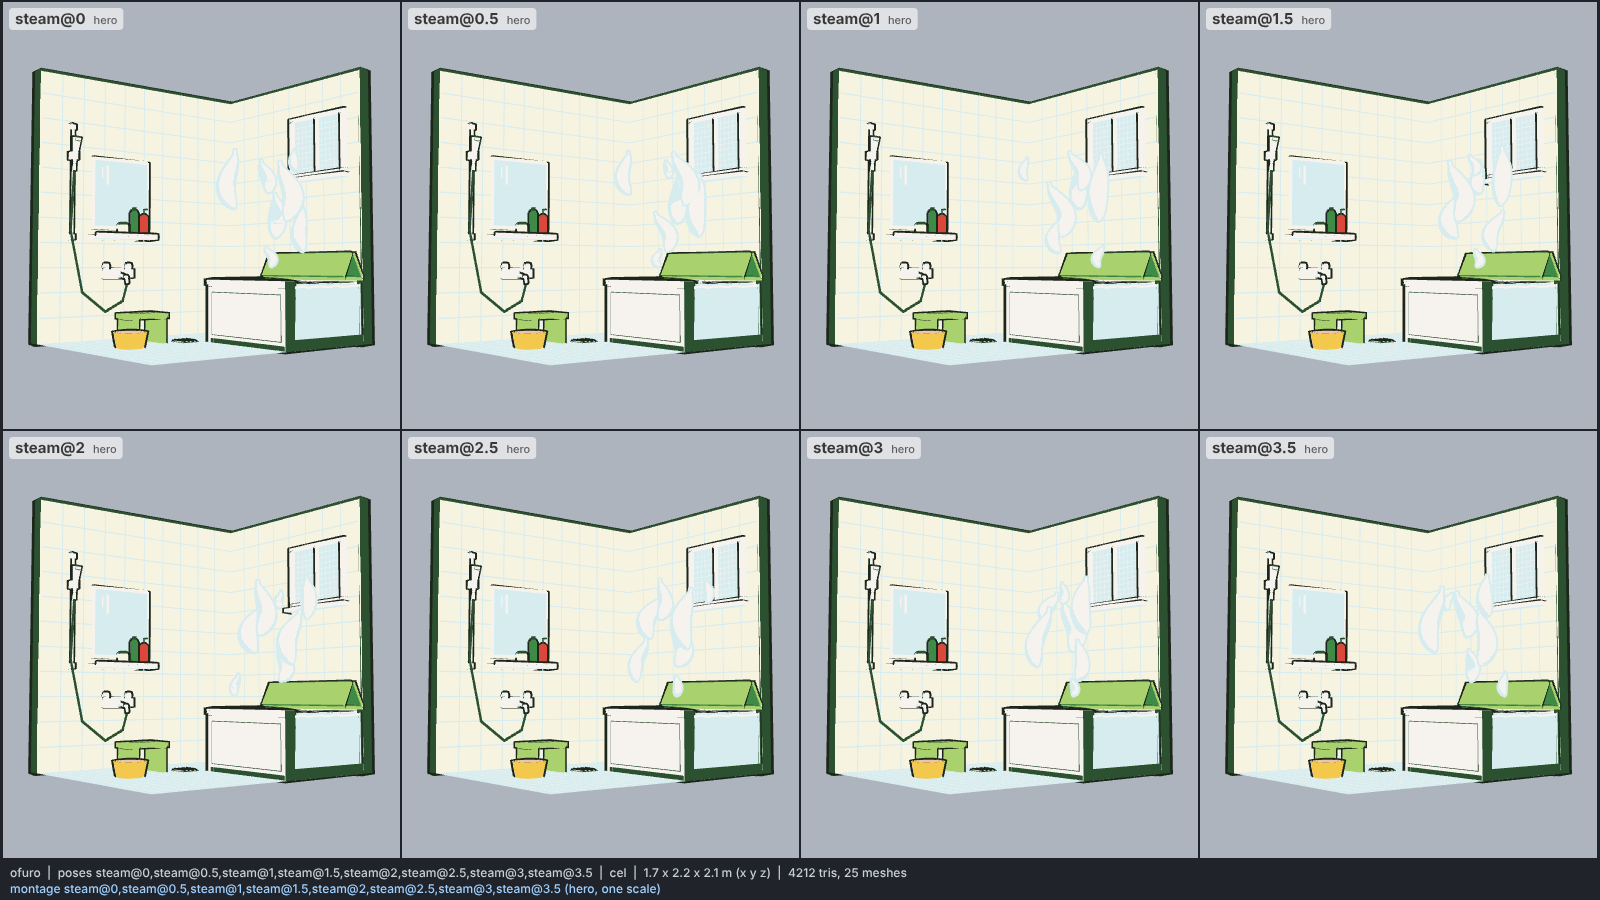
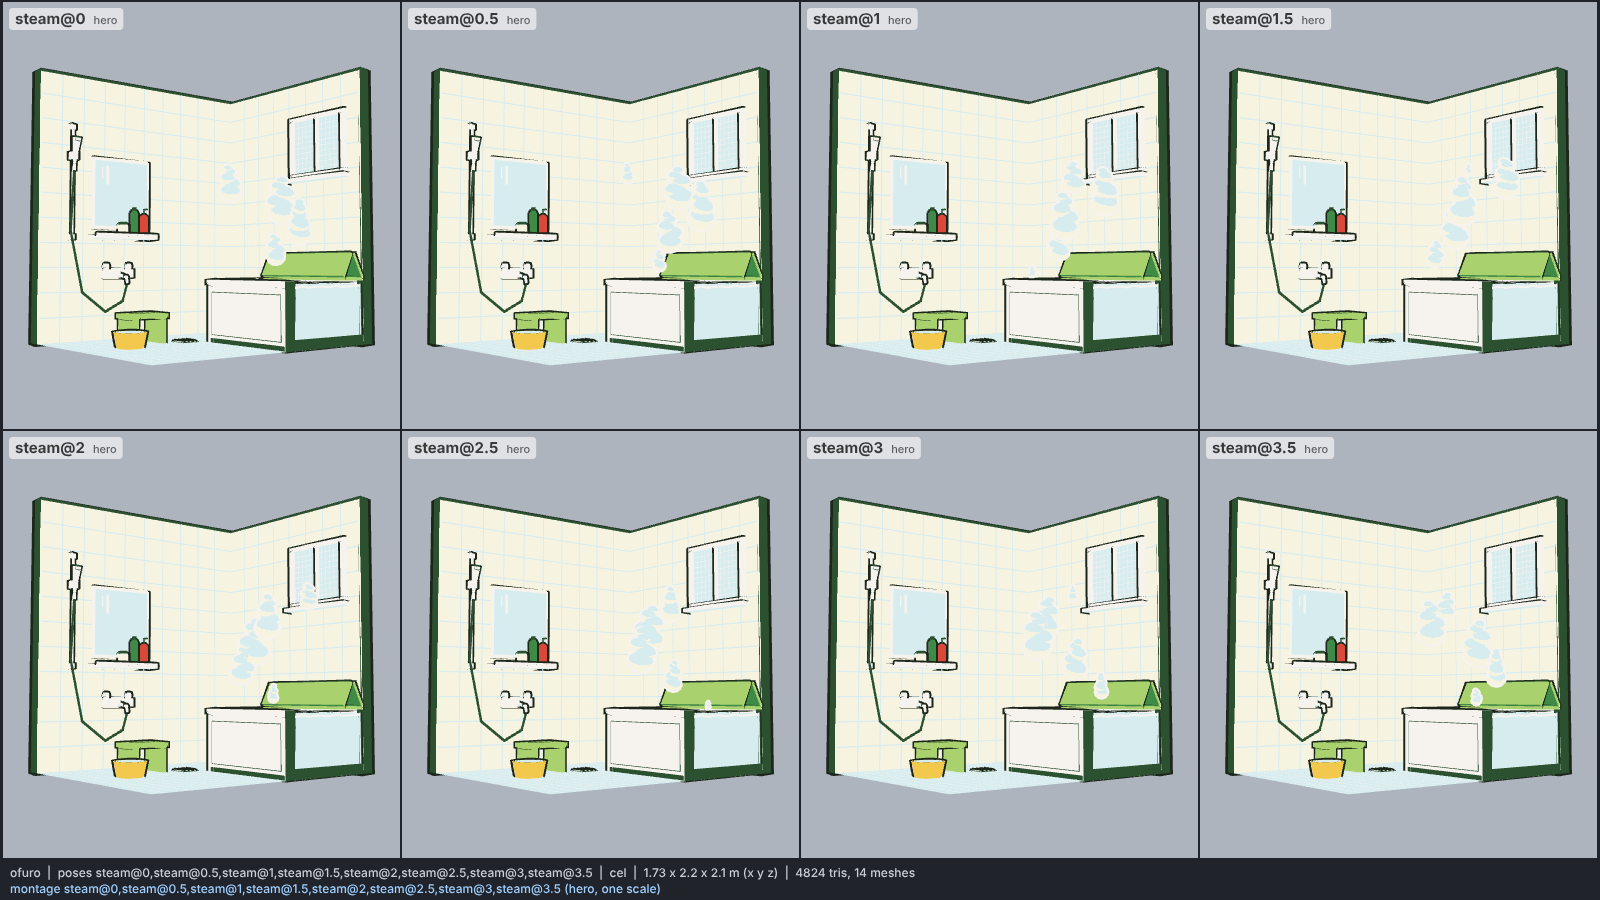
models: ofuro, merge steam and ripples into one mesh each, puffy vapour
Wisps and ripple rings are now one mesh each, their vertices rewritten
by pose() from the joints (14 meshes, was 25). Steam is five stacks of
overlapping soft puffs in sky / moon instead of white pointed wisps.

Claude-Session: https://claude.ai/code/session_01RarBCdt4E1fNHHaUKaW5GL

diff --git a/models/ofuro.js b/models/ofuro.js
@@ -6,7 +6,7 @@
 // y = 0, centred on x = z = 0.
 //
 // Construction (boxes, capped tubes, smooth tubes, lathes, flat plates and annuli, all triangle soups merged per
-// material, so the static room is 14 meshes; every triangle is wound away from a point inside its solid):
+// material, so the static room is 12 meshes; every triangle is wound away from a point inside its solid):
 //   SHELL     floor quad with a small mosaic grout grid and a drain grate; the -X and -Z walls as 10 cm boxes with a
 //             tile grout grid and dark section caps where the cutaway opens them.
 //   TUB       a deep square tub (0.92 x 0.82 m, rim 0.5 m) as wall boxes, a floor slab and a rim band, a recessed
@@ -19,27 +19,30 @@
 //   WASH      a wall mixer tap with two handles and a spout, a shower head on its hose in a holder on a riser bar, a
 //             mirror over a shelf with three bottles (pump, tall, squat), a low wash stool and a yellow basin (oke).
 //   WINDOW    a small frosted window high on the -Z wall over the tub: frame, stile, sill, pane with a fine grid.
-//   STEAM     eight wisps (tapered S-curved smooth tubes) on joints steam0..7, three ripple rings on ripple0..2.
+//   STEAM     five wisps, each a stack of five overlapping soft puffs shrinking upward in an S, on joints steam0..4,
+//             and three ripple rings on ripple0..2. All wisps are ONE mesh and all rings ONE mesh: pose() rewrites
+//             their vertices, normals and hull normals from the joints' transforms (as the gachapon's cranks).
 // Proportions (real size, base unit the wall height H = 2.2 m): interior 1.6 (x) by 2.0 (z); tub x -0.12..0.8,
 //   z -1.0..-0.18, rim 0.5, water 0.47; tap 0.55, shelf 0.84, mirror 0.95-1.5, shower bar 0.85-1.75; window
 //   1.4-1.85; stool seat 0.235, oke 0.12 tall.
 // Options: build(THREE, kit, colors, { height }): height scales the whole room uniformly so the wall top is `height`
 //   (default 2.2 m).
-// Clip (build() returns clips { steam: 4 }; pose("steam@1.5")): the wisps rise ~0.95 m from the water, swell, sway
-//   and shrink away as they climb, eight on staggered phases; the ripple rings spread from the middle of the open
+// Clip (build() returns clips { steam: 4 }; pose("steam@1.5")): the wisps rise ~0.9 m from the water, swell, sway
+//   and shrink away as they climb, five on staggered phases; the ripple rings spread from the middle of the open
 //   water and sink under the surface at the end, twice per loop. Loops exactly at 4 s. Rest is the clip at 1.2 s.
-// Budget: ~4.2k triangles, 25 meshes (14 static materials, 8 wisps, 3 rings).
-// Ink in pixels: walls, floor, tub 3; fittings, bottles, lid, water 2; steam 2 in the sky tone (soft edges, not ink).
+// Budget: ~4.8k triangles, 14 meshes (12 static materials, the steam, the ripples).
+// Ink in pixels: walls, floor 3; tub, fittings, bottles, lid, water 2; steam 2 in sclera (a soft rim, not ink).
 // Colours (meadow, one script), base / shade:
 //   wall tiles                moon #f7f3e1 / sky #d7ecef, threshold 0.1; grout sky #d7ecef flat
 //   floor mosaic              sky #d7ecef flat, grout sclera #f6f3ee
 //   tub, apron, rim           sclera #f6f3ee / sky #d7ecef (white enamel)
 //   water                     sclera #f6f3ee crests / sky #d7ecef body, threshold 0.85 (pale aqua, white ripples)
-//   ripples, glints, steam    sclera #f6f3ee / sky #d7ecef
+//   ripples, glints           sclera #f6f3ee flat
+//   steam (vapour)            sky #d7ecef / moon #f7f3e1 at 0.3, hull sclera #f6f3ee
 //   lid, stool                line #a9d16e / iris #3f8a47 (green plastic)
 //   tap, shower, bar, shelf, window frame  sclera #f6f3ee / sky #d7ecef
 //   mirror, frosted pane      sky #d7ecef flat; the pane's grid sclera
-//   oke                       practical #f2c94c / skin #f0c2ae
+//   oke                       practical #f2c94c / skin #f0c2ae, its water sky
 //   bottles                   accent #d9483b, iris #3f8a47 / hair #2c5131, moon / skin
 //   caps, hose, drain, pump   hair #2c5131 flat or inked (lines)
 
@@ -53,7 +56,8 @@ export const meta = {
     floor: "#d7ecef", floorGrout: "#f6f3ee",
     tub: "#f6f3ee", tubShade: "#d7ecef",
     water: "#d7ecef", waterLit: "#f6f3ee",
-    foam: "#f6f3ee", foamShade: "#d7ecef",
+    foam: "#f6f3ee",
+    vapour: "#d7ecef", vapourShade: "#f7f3e1", vapourInk: "#f6f3ee",
     green: "#a9d16e", greenShade: "#3f8a47",
     metal: "#f6f3ee", metalShade: "#d7ecef",
     mirror: "#d7ecef",
@@ -355,33 +359,44 @@ export function build(THREE, kit, colors = meta.colors, opts = {}) {
   // oke (basin): a yellow tapered bowl beside the stool, on the floor
   const OX = -0.1, OZ = 0.58;
   lathe("oke", [OX, 0, OZ], [[0.095, 0], [0.105, 0.01], [0.125, 0.11], [0.13, 0.12]], 14);
-  annulus("okeIn", [OX, 0.1205, OZ], 0.0, 0.112, 14); // the inside seen as a disc
+  annulus("floor", [OX, 0.1205, OZ], 0.0, 0.112, 14); // water in the basin, seen as a disc
   annulus("dark", [OX, 0.1206, OZ], 0.112, 0.118, 14);
 
-  // ---------- steam and ripples on joints ----------
-  const WISPS = 8, RINGS = 3;
-  const wisp = (i) => { // a tapered S-curved tube, local origin at its root
-    const n = 14, pts = [], rad = [];
-    const bend = i % 2 ? 1 : -1, ht = 0.3 + 0.05 * (i % 3);
-    for (let k = 0; k <= n; k++) {
-      const t = k / n;
-      pts.push([bend * 0.05 * Math.sin(t * Math.PI * 1.5), t * ht, 0.02 * Math.sin(t * Math.PI)]);
-      rad.push(0.008 + 0.064 * Math.sin(Math.PI * Math.min(1, t * 1.1)) ** 0.6 * (1 - 0.45 * t));
-    }
-    tube(`steam${i}`, pts, rad, 8);
-  };
-  for (let i = 0; i < WISPS; i++) wisp(i);
+  // ---------- steam and ripples: one mesh each, rewritten by pose() ----------
+  // Each wisp is a stack of five overlapping soft puffs (squashed ellipsoids) that shrink upward and step side to side in an S,
+  // authored at its own root; each ripple is a thin ring of unit radius. Every frame at() places each piece by its
+  // joint's transform (joints steam0..4, ripple0..2 carry position / rotation / scale) and writes the transformed
+  // vertices, normals and hull normals into the one merged geometry, so the hull follows.
+  const WISPS = 5, RINGS = 3;
+  function blob(key, ctr, r, nu = 10, nv = 6) {
+    const pt = (i, j) => {
+      const v = -Math.PI / 2 + (Math.PI * i) / nv, u = (2 * Math.PI * j) / nu;
+      const d = [Math.cos(v) * Math.cos(u), Math.sin(v), Math.cos(v) * Math.sin(u)];
+      return { q: add(ctr, [r[0] * d[0], r[1] * d[1], r[2] * d[2]]), n: nrm([d[0] / r[0], d[1] / r[1], d[2] / r[2]]) };
+    };
+    for (let i = 0; i < nv; i++)
+      for (let j = 0; j < nu; j++) {
+        const a = pt(i, j), b = pt(i, j + 1), d = pt(i + 1, j + 1), f = pt(i + 1, j);
+        tri(key, a.q, b.q, d.q, ctr, a.n, b.n, d.n);
+        tri(key, a.q, d.q, f.q, ctr, a.n, d.n, f.n);
+      }
+  }
+  const PUFF = [[0, 0.0, 0.1], [1, 0.08, 0.085], [-0.6, 0.155, 0.07], [0.6, 0.22, 0.055], [-0.2, 0.27, 0.04]]; // [side, y, radius]
+  for (let i = 0; i < WISPS; i++) {
+    const s = i % 2 ? 1 : -1;
+    for (const [side, y, r] of PUFF) blob(`steam${i}`, [s * side * 0.04, y, 0], [r * 1.2, r * 0.95, r]);
+  }
   for (let k = 0; k < RINGS; k++) annulus(`ripple${k}`, [0, 0, 0], 0.86, 1, 22, 0.62);
 
   // ---------- meshes: static ones merged per material signature ----------
-  const fit = [c.metal, c.metalShade, 0.3, 2];
+  const fit = [c.metal, c.metalShade, 0.25, 2];
   const MAT = {
     floor: [c.floor, c.floor, 0.1, 3],
     fgrout: [c.floorGrout, c.floorGrout, 0.1, 0],
     wall: [c.wall, c.wallShade, 0.1, 3],
     grout: [c.grout, c.grout, 0.1, 0],
     dark: [c.dark, c.dark, 0.1, 0],
-    tub: [c.tub, c.tubShade, 0.2, 3],
+    tub: [c.tub, c.tubShade, 0.25, 2],
     water: [c.waterLit, c.water, 0.85, 2],
     foam: [c.foam, c.foam, 0.1, 0],
     green: [c.green, c.greenShade, 0.15, 2],
@@ -390,7 +405,6 @@ export function build(THREE, kit, colors = meta.colors, opts = {}) {
     frost: [c.frost, c.frost, 0.1, 0],
     fgrid: [c.frostGrid, c.frostGrid, 0.1, 0],
     oke: [c.oke, c.okeShade, 0.15, 2],
-    okeIn: [c.okeShade, c.okeShade, 0.1, 0],
     red: [c.red, c.red, 0.1, 2],
     leaf: [c.leaf, c.leafShade, 0.15, 2],
     cream: [c.cream, c.creamShade, 0.15, 2],
@@ -414,48 +428,74 @@ export function build(THREE, kit, colors = meta.colors, opts = {}) {
     mesh.name = key;
     body.add(mesh);
   }
-  const steam = [], ripples = [];
-  for (let i = 0; i < WISPS; i++) {
-    const j = new THREE.Group();
-    j.name = `steam${i}`;
-    const mesh = mk(soups[`steam${i}`].p, soups[`steam${i}`].n, c.foam, c.foamShade, 0.2, 2, c.foamShade);
-    mesh.name = `wisp${i}`;
-    j.add(mesh);
-    body.add(j);
-    joints[j.name] = j;
-    steam.push(j);
+  // one merged mesh per moving set: base vertices per piece, rewritten through each piece's joint
+  function dynamic(name, keys, mat, opts) {
+    const p = [], n = [], spans = [];
+    for (const key of keys) {
+      const s = soups[key], v0 = p.length / 3;
+      p.push(...s.p), n.push(...s.n);
+      spans.push([v0, p.length / 3]);
+    }
+    const g = new THREE.BufferGeometry();
+    g.setAttribute("position", new THREE.Float32BufferAttribute(p, 3));
+    g.setAttribute("normal", new THREE.Float32BufferAttribute(n, 3));
+    const mesh = kit.toon(g, mat[0], mat[1], opts);
+    mesh.name = name;
+    body.add(mesh);
+    kit.hullNormals(g); // shared with the hull, so it is computed once here on the rest geometry and moved with it
+    const base = { p: Float32Array.from(p), n: Float32Array.from(n), h: Float32Array.from(g.attributes.hullNormal.array) };
+    const js = keys.map((key) => {
+      const j = new THREE.Group();
+      j.name = key;
+      body.add(j);
+      joints[key] = j;
+      return j;
+    });
+    const nm = new THREE.Matrix3(), a = new THREE.Vector3();
+    function update() {
+      const P = g.attributes.position.array, N = g.attributes.normal.array, H = g.attributes.hullNormal.array;
+      js.forEach((j, k) => {
+        j.updateMatrix();
+        nm.getNormalMatrix(j.matrix);
+        for (let v = spans[k][0]; v < spans[k][1]; v++) {
+          const i = v * 3;
+          a.set(base.p[i], base.p[i + 1], base.p[i + 2]).applyMatrix4(j.matrix), P[i] = a.x, P[i + 1] = a.y, P[i + 2] = a.z;
+          a.set(base.n[i], base.n[i + 1], base.n[i + 2]).applyMatrix3(nm).normalize(), N[i] = a.x, N[i + 1] = a.y, N[i + 2] = a.z;
+          a.set(base.h[i], base.h[i + 1], base.h[i + 2]).applyMatrix3(nm).normalize(), H[i] = a.x, H[i + 1] = a.y, H[i + 2] = a.z;
+        }
+      });
+      g.attributes.position.needsUpdate = g.attributes.normal.needsUpdate = g.attributes.hullNormal.needsUpdate = true;
+      g.computeBoundingSphere(), g.computeBoundingBox();
+    }
+    return { js, update };
   }
-  for (let k = 0; k < RINGS; k++) {
-    const j = new THREE.Group();
-    j.name = `ripple${k}`;
-    const mesh = mk(soups[`ripple${k}`].p, soups[`ripple${k}`].n, c.foam, c.foam, 0.1, 0);
-    mesh.name = `ring${k}`;
-    j.add(mesh);
-    body.add(j);
-    joints[j.name] = j;
-    ripples.push(j);
-  }
+  const STEAM = dynamic("steam", Array.from({ length: WISPS }, (_, i) => `steam${i}`), [c.vapour, c.vapourShade],
+    { threshold: 0.3, px: 2, ink: c.vapourInk });
+  const RIPPLE = dynamic("ripples", Array.from({ length: RINGS }, (_, k) => `ripple${k}`), [c.foam, c.foam],
+    { threshold: 0.1, outline: false });
+  const steam = STEAM.js, ripples = RIPPLE.js;
 
   // ---------- clip: steam (4 s loop) ----------
-  // Wisp i: phase f = frac(t / 4 + i / 6). It rises from the water by 0.95 m over the loop, swelling in then
-  // shrinking away (scale sin(pi f)), swaying in x and turning slowly. Ripple k: phase frac(t / 2 + k / 3); radius
+  // Wisp i: phase f = frac(t / 4 + i / 5). It rises from the water by 0.9 m over the loop, swelling in then
+  // shrinking away (scale sin(pi f), stretched as it climbs), swaying in x and turning slowly. Ripple k: phase frac(t / 2 + k / 3); radius
   // 0.03 -> 0.19 m around the middle of the open water, sunk under the surface for the last 15 % (it fades out).
   const CLIPS = { steam: 4 };
-  const ROOTS = [[0.12, -0.5], [0.42, -0.32], [0.62, -0.56], [0.26, -0.62], [0.5, -0.42], [0.04, -0.34], [0.34, -0.5], [0.7, -0.36]];
+  const ROOTS = [[0.14, -0.48], [0.46, -0.36], [0.66, -0.52], [0.3, -0.58], [0.04, -0.36]];
   const frac = (v) => v - Math.floor(v);
   function at(t) {
     for (let i = 0; i < WISPS; i++) {
       const f = frac(t / CLIPS.steam + i / WISPS), s = Math.sin(Math.PI * f) ** 0.7;
       const [x, z] = ROOTS[i];
-      steam[i].position.set(x + 0.06 * Math.sin(2 * Math.PI * (f + i * 0.17)), WL + 0.02 + f * 0.95, z + 0.03 * f);
-      steam[i].scale.set(0.6 + 0.6 * s, 0.4 + 0.9 * s, 0.6 + 0.6 * s).multiplyScalar(Math.max(0.001, s));
-      steam[i].rotation.set(0, 0.6 * i + 2 * Math.PI * f * 0.25, 0.15 * Math.sin(2 * Math.PI * f));
+      steam[i].position.set(x + 0.07 * Math.sin(2 * Math.PI * (f + i * 0.21)), WL + 0.03 + f * 0.9, z + 0.04 * f);
+      steam[i].scale.set(0.7 + 0.5 * f, 0.75 + 0.35 * f, 0.7 + 0.5 * f).multiplyScalar(Math.max(0.001, s));
+      steam[i].rotation.set(0, 0.9 * i + Math.PI * f * 0.5, 0.12 * Math.sin(2 * Math.PI * f));
     }
     for (let k = 0; k < RINGS; k++) {
       const f = frac(t / 2 + k / RINGS), r = 0.03 + 0.16 * f;
       ripples[k].position.set(RC[0], f < 0.85 ? WL + 0.0025 : WL - 0.01, RC[1]);
       ripples[k].scale.set(r, 1, r);
     }
+    STEAM.update(), RIPPLE.update();
   }
   function pose(name) {
     const m = /^(\w+)@(-?[\d.]+)$/.exec(name);
